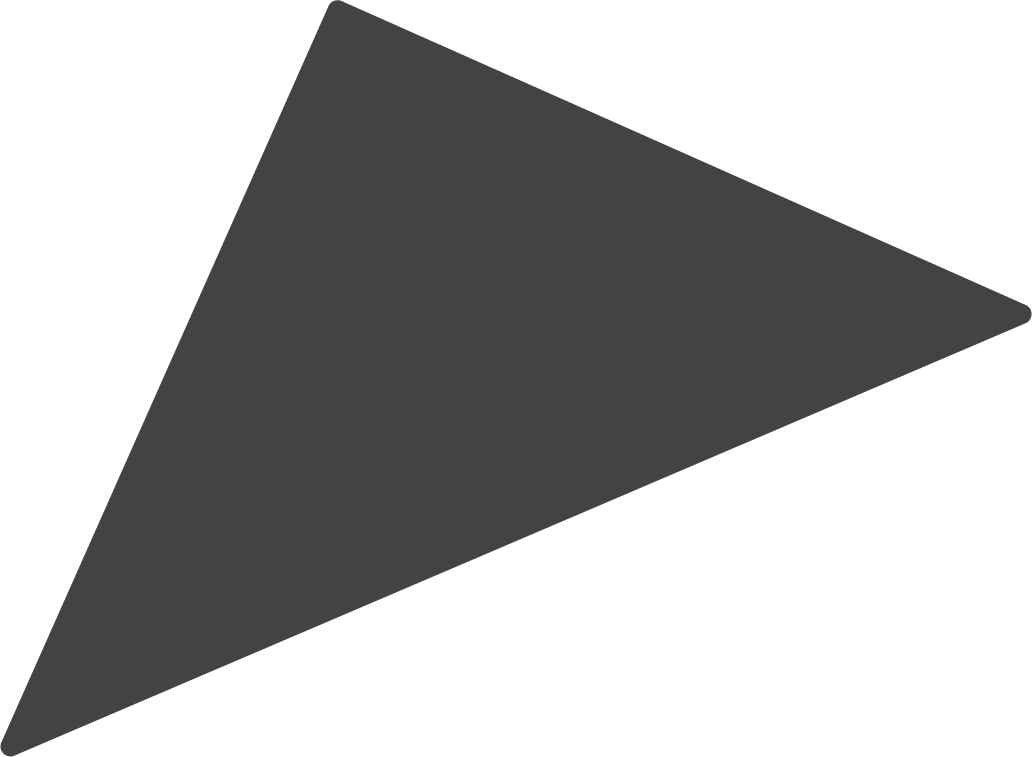
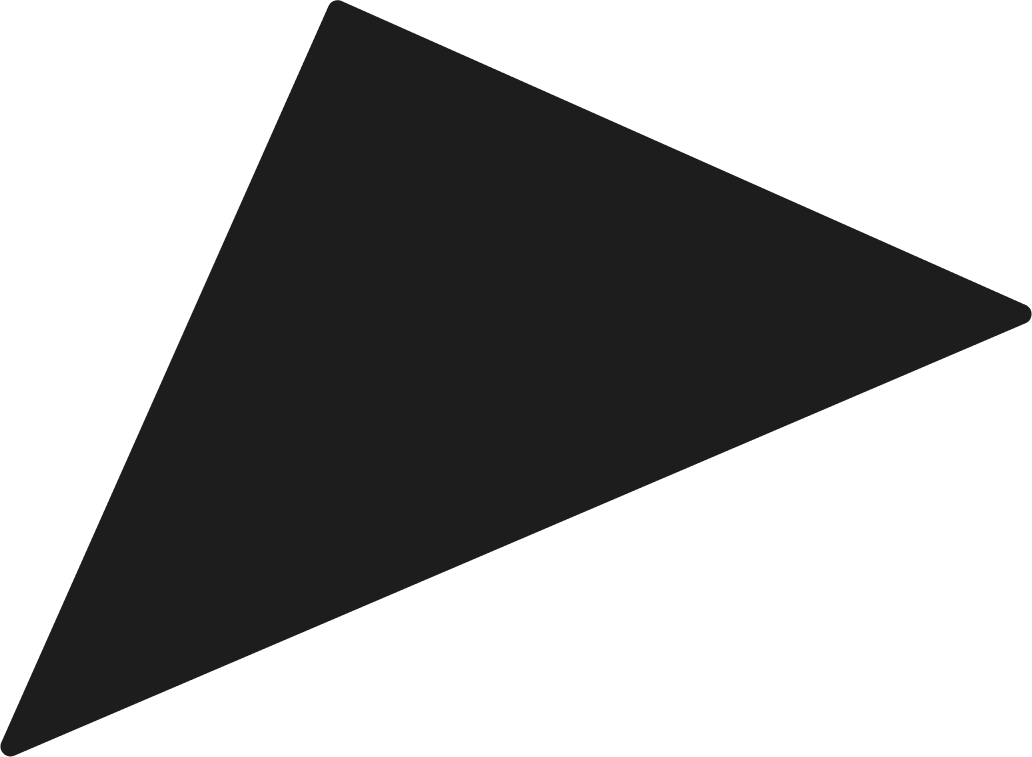
darken background color scheme and box shadows

diff --git a/build/index.html b/build/index.html
@@ -1,1 +1,1 @@
-<!doctype html><html lang="en"><head><meta charset="utf-8"/><link rel="icon" href="/favicon.ico"/><meta name="viewport" content="width=device-width,initial-scale=1"/><meta name="theme-color" content="#000000"/><meta name="description" content="Web site created using create-react-app"/><link rel="apple-touch-icon" href="/javaScript.png"/><link rel="manifest" href="/manifest.json"/><title>Jessie Hinojosa | Full-Stack Developer</title><link href="/static/css/main.bee3eab6.chunk.css" rel="stylesheet"></head><body><noscript>You need to enable JavaScript to run this app.</noscript><div id="root"></div><script>!function(e){function r(r){for(var n,a,i=r[0],l=r[1],c=r[2],p=0,s=[];p<i.length;p++)a=i[p],Object.prototype.hasOwnProperty.call(o,a)&&o[a]&&s.push(o[a][0]),o[a]=0;for(n in l)Object.prototype.hasOwnProperty.call(l,n)&&(e[n]=l[n]);for(f&&f(r);s.length;)s.shift()();return u.push.apply(u,c||[]),t()}function t(){for(var e,r=0;r<u.length;r++){for(var t=u[r],n=!0,i=1;i<t.length;i++){var l=t[i];0!==o[l]&&(n=!1)}n&&(u.splice(r--,1),e=a(a.s=t[0]))}return e}var n={},o={1:0},u=[];function a(r){if(n[r])return n[r].exports;var t=n[r]={i:r,l:!1,exports:{}};return e[r].call(t.exports,t,t.exports,a),t.l=!0,t.exports}a.e=function(e){var r=[],t=o[e];if(0!==t)if(t)r.push(t[2]);else{var n=new Promise((function(r,n){t=o[e]=[r,n]}));r.push(t[2]=n);var u,i=document.createElement("script");i.charset="utf-8",i.timeout=120,a.nc&&i.setAttribute("nonce",a.nc),i.src=function(e){return a.p+"static/js/"+({}[e]||e)+"."+{3:"f725daf0"}[e]+".chunk.js"}(e);var l=new Error;u=function(r){i.onerror=i.onload=null,clearTimeout(c);var t=o[e];if(0!==t){if(t){var n=r&&("load"===r.type?"missing":r.type),u=r&&r.target&&r.target.src;l.message="Loading chunk "+e+" failed.\n("+n+": "+u+")",l.name="ChunkLoadError",l.type=n,l.request=u,t[1](l)}o[e]=void 0}};var c=setTimeout((function(){u({type:"timeout",target:i})}),12e4);i.onerror=i.onload=u,document.head.appendChild(i)}return Promise.all(r)},a.m=e,a.c=n,a.d=function(e,r,t){a.o(e,r)||Object.defineProperty(e,r,{enumerable:!0,get:t})},a.r=function(e){"undefined"!=typeof Symbol&&Symbol.toStringTag&&Object.defineProperty(e,Symbol.toStringTag,{value:"Module"}),Object.defineProperty(e,"__esModule",{value:!0})},a.t=function(e,r){if(1&r&&(e=a(e)),8&r)return e;if(4&r&&"object"==typeof e&&e&&e.__esModule)return e;var t=Object.create(null);if(a.r(t),Object.defineProperty(t,"default",{enumerable:!0,value:e}),2&r&&"string"!=typeof e)for(var n in e)a.d(t,n,function(r){return e[r]}.bind(null,n));return t},a.n=function(e){var r=e&&e.__esModule?function(){return e.default}:function(){return e};return a.d(r,"a",r),r},a.o=function(e,r){return Object.prototype.hasOwnProperty.call(e,r)},a.p="/",a.oe=function(e){throw console.error(e),e};var i=this["webpackJsonppersonal-portfolio"]=this["webpackJsonppersonal-portfolio"]||[],l=i.push.bind(i);i.push=r,i=i.slice();for(var c=0;c<i.length;c++)r(i[c]);var f=l;t()}([])</script><script src="/static/js/2.4fbd4312.chunk.js"></script><script src="/static/js/main.b30d050f.chunk.js"></script></body></html>
+<!doctype html><html lang="en"><head><meta charset="utf-8"/><link rel="icon" href="/favicon.ico"/><meta name="viewport" content="width=device-width,initial-scale=1"/><meta name="theme-color" content="#000000"/><meta name="Jessie Hinojosa" content="A freelance full-stack WEB DEVELOPER who DESIGN and builds websites tailored to your needs."/><link rel="apple-touch-icon" href="/javaScript.png"/><link rel="manifest" href="/manifest.json"/><title>Jessie Hinojosa | Full-Stack Developer</title><link href="/static/css/main.bee3eab6.chunk.css" rel="stylesheet"></head><body><noscript>You need to enable JavaScript to run this app.</noscript><div id="root"></div><script>!function(e){function r(r){for(var n,a,i=r[0],l=r[1],c=r[2],p=0,s=[];p<i.length;p++)a=i[p],Object.prototype.hasOwnProperty.call(o,a)&&o[a]&&s.push(o[a][0]),o[a]=0;for(n in l)Object.prototype.hasOwnProperty.call(l,n)&&(e[n]=l[n]);for(f&&f(r);s.length;)s.shift()();return u.push.apply(u,c||[]),t()}function t(){for(var e,r=0;r<u.length;r++){for(var t=u[r],n=!0,i=1;i<t.length;i++){var l=t[i];0!==o[l]&&(n=!1)}n&&(u.splice(r--,1),e=a(a.s=t[0]))}return e}var n={},o={1:0},u=[];function a(r){if(n[r])return n[r].exports;var t=n[r]={i:r,l:!1,exports:{}};return e[r].call(t.exports,t,t.exports,a),t.l=!0,t.exports}a.e=function(e){var r=[],t=o[e];if(0!==t)if(t)r.push(t[2]);else{var n=new Promise((function(r,n){t=o[e]=[r,n]}));r.push(t[2]=n);var u,i=document.createElement("script");i.charset="utf-8",i.timeout=120,a.nc&&i.setAttribute("nonce",a.nc),i.src=function(e){return a.p+"static/js/"+({}[e]||e)+"."+{3:"f725daf0"}[e]+".chunk.js"}(e);var l=new Error;u=function(r){i.onerror=i.onload=null,clearTimeout(c);var t=o[e];if(0!==t){if(t){var n=r&&("load"===r.type?"missing":r.type),u=r&&r.target&&r.target.src;l.message="Loading chunk "+e+" failed.\n("+n+": "+u+")",l.name="ChunkLoadError",l.type=n,l.request=u,t[1](l)}o[e]=void 0}};var c=setTimeout((function(){u({type:"timeout",target:i})}),12e4);i.onerror=i.onload=u,document.head.appendChild(i)}return Promise.all(r)},a.m=e,a.c=n,a.d=function(e,r,t){a.o(e,r)||Object.defineProperty(e,r,{enumerable:!0,get:t})},a.r=function(e){"undefined"!=typeof Symbol&&Symbol.toStringTag&&Object.defineProperty(e,Symbol.toStringTag,{value:"Module"}),Object.defineProperty(e,"__esModule",{value:!0})},a.t=function(e,r){if(1&r&&(e=a(e)),8&r)return e;if(4&r&&"object"==typeof e&&e&&e.__esModule)return e;var t=Object.create(null);if(a.r(t),Object.defineProperty(t,"default",{enumerable:!0,value:e}),2&r&&"string"!=typeof e)for(var n in e)a.d(t,n,function(r){return e[r]}.bind(null,n));return t},a.n=function(e){var r=e&&e.__esModule?function(){return e.default}:function(){return e};return a.d(r,"a",r),r},a.o=function(e,r){return Object.prototype.hasOwnProperty.call(e,r)},a.p="/",a.oe=function(e){throw console.error(e),e};var i=this["webpackJsonppersonal-portfolio"]=this["webpackJsonppersonal-portfolio"]||[],l=i.push.bind(i);i.push=r,i=i.slice();for(var c=0;c<i.length;c++)r(i[c]);var f=l;t()}([])</script><script src="/static/js/2.4fbd4312.chunk.js"></script><script src="/static/js/main.b30d050f.chunk.js"></script></body></html>

diff --git a/src/pages/Portfolio.js b/src/pages/Portfolio.js
@@ -77,7 +77,7 @@ const Portfolio = () => {
                             return(
                                 <div className='my-12 fade fadeOut' key={index}>
                                 <div className='
-                                  outer-card rounded-cards shadow-md 
+                                  outer-card rounded-cards shadow-lg 
                                 ' key={index} >
                                     <div className='inner-card relative z-0 border-2 rounded-t-cards border-black'>
                                         <img src={card.desktopImage} className='rounded-t-cards w-full' key={index} alt='application page'/>
@@ -149,7 +149,7 @@ const Portfolio = () => {
                             return(
                                 <div className='my-12 fade fadeOut' key={index}>
                                 <div className='
-                                  outer-card rounded-cards shadow-md 
+                                  outer-card rounded-cards shadow-lg 
                                 ' key={index} >
                                     <div className='inner-card relative z-0 border-2 rounded-t-cards border-black'>
                                         <img src={card.desktopImage} className='rounded-t-cards w-full' key={index} alt='application page'/>
@@ -222,7 +222,7 @@ const Portfolio = () => {
                     return (
                      <div className='mb-6 fade fadeOut' key={index}>
                         <div className='
-                          outer-card rounded-button shadow-md
+                          outer-card rounded-button shadow-lg
                         ' key={index} >
                             <div className='inner-card relative z-0 border-2 rounded-t-button border-dark-black'>
                                 <img src={card.image} className='rounded-t-button w-full' key={index} alt='application page'/>

diff --git a/tailwind.config.js b/tailwind.config.js
@@ -12,9 +12,9 @@ module.exports = {
     },
    boxShadow: {
     sm: '0 1px 2px 0 rgba(0, 0, 0, 0.05)',
-    DEFAULT: '0 1px 3px 0 rgba(0, 0, 0, 0.1), 0 1px 2px 0 rgba(0, 0, 0, 0.06)',
-    md: '0 4px 6px -1px rgba(0, 0, 0, 1), 0 2px 4px -1px rgba(0, 0, 0, 0.06)',
-    lg: '7px 7px 20px -3px rgba(0, 0, 0, 1), 0 4px 6px -2px rgba(0, 0, 0, 0.05)',
+    DEFAULT: '0 1px 3px 0 rgba(253,253,253, 1), 0 1px 2px 0 rgba(0, 0, 0, 0.06)',
+    md: '0 4px 6px -1px rgba(253,253,253, 1), 0 2px 4px -1px rgba(0, 0, 0, 0.06)',
+    lg: '5px 5px 10px -3px rgba(253,253,253, .5), 0 4px 6px -2px rgba(0, 0, 0, 0.05)',
     xl: '0 20px 25px -5px rgba(0, 0, 0, 0.1), 0 10px 10px -5px rgba(0, 0, 0, 0.04)',
     '2xl': '0 25px 50px -12px rgba(0, 0, 0, 0.25)',
    '3xl': '0 35px 60px -15px rgba(0, 0, 0, 0.3)',
@@ -61,9 +61,12 @@ module.exports = {
         'polygonLgBg': "url('assets/images/sm-mobile/lg-polygon.svg')",
       },
       colors: {
-        "black": "#363636",
+        // "black": "#363636",
+        "black": "#0f0f0f", 
+        // "black": "#1b1b1b",
         "dark-black": "#000000",
-        "grey": "#434343",
+        // "grey": "#434343",
+        "grey": "#1d1d1d",
         "white": "#f9f9f9",
         "purp": '#E49EFC',
         "baby-blue": '#9DD8EB'

diff --git a/src/pages/Connect.js b/src/pages/Connect.js
@@ -76,7 +76,7 @@ const Connect = () => {
                         />
                     <div className='
                       flex flex-wrap justify-center pb-2 pt-7 
-                      shadow-md rounded-cards bg-black 
+                      shadow-lg rounded-cards bg-grey 
                       border border-dark-black
                       
                     '>
@@ -109,7 +109,7 @@ const Connect = () => {
                         />
                     <div className='
                       flex flex-wrap justify-center pb-2 pt-7 
-                      shadow-md rounded-button bg-black
+                      shadow-lg rounded-button bg-grey
                       border border-dark-black
                     '>
                       <p className='
@@ -144,7 +144,7 @@ const Connect = () => {
                             />
                         <div className='
                           flex flex-wrap justify-center pb-2 pt-7 
-                          shadow-md rounded-button bg-black
+                          shadow-lg rounded-button bg-black
                           
                         '>
                           <p className='

diff --git a/src/components/Hero.js b/src/components/Hero.js
@@ -23,7 +23,7 @@ const hero = (props) => {
             <img src={DesktopProfilePic} 
                  alt='full stack developer' 
                  className='
-                   relative w-40 mx-auto z-10  my-12 
+                   relative w-40 mx-auto z-10 my-12 
                    desktop:my-0 desktop:mx-0 rounded-cards
                    desktop:w-desktop-w fade fadeOut shadow-lg
                   '></img>

diff --git a/public/index.html b/public/index.html
@@ -7,7 +7,7 @@
     <meta name="theme-color" content="#000000" />
     <meta
       name="description"
-      content="Web site created using create-react-app"
+      content="A freelance full-stack WEB DEVELOPER who DESIGNS and BUILDS websites tailored to your needs."
     />
     <link rel="apple-touch-icon" href="%PUBLIC_URL%/javaScript.png" />
     <!--
